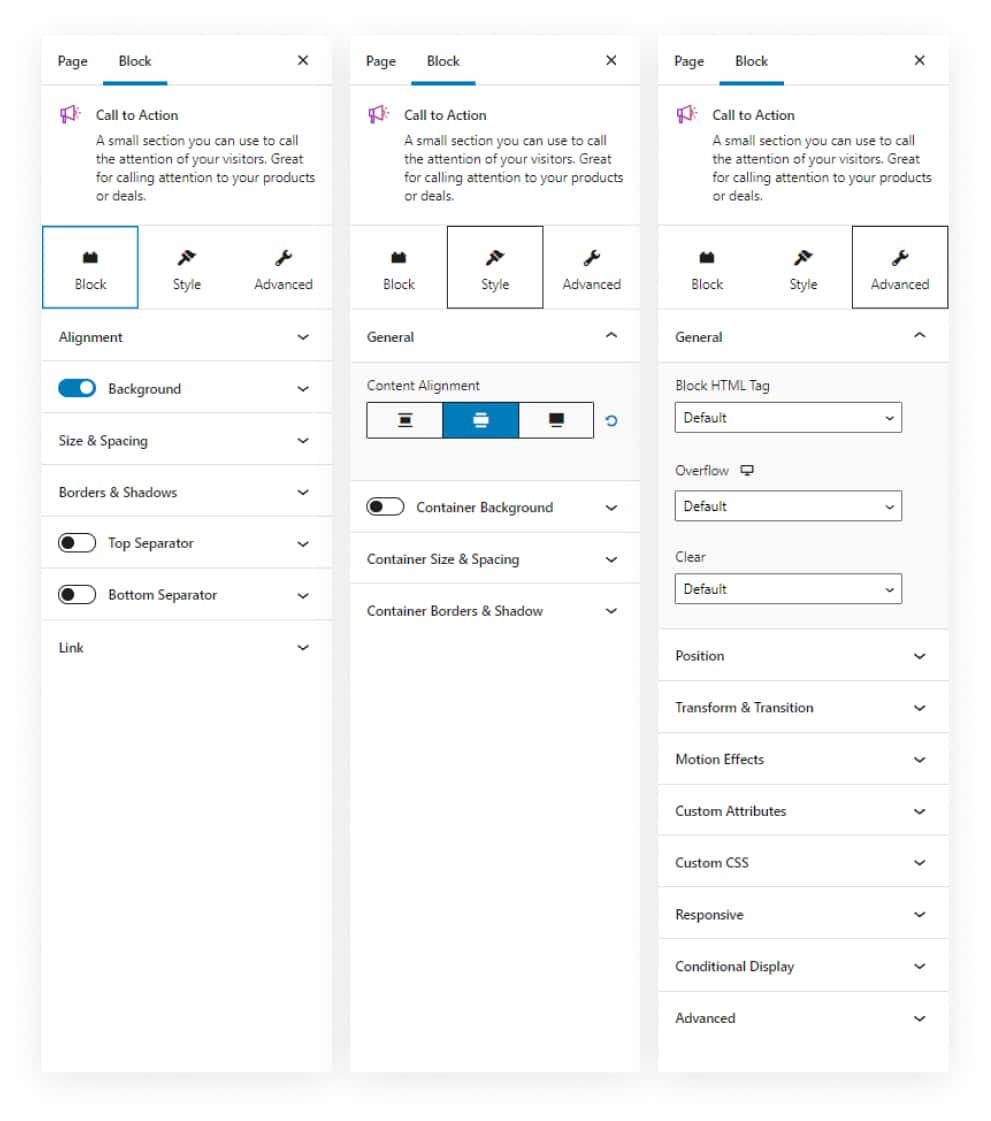
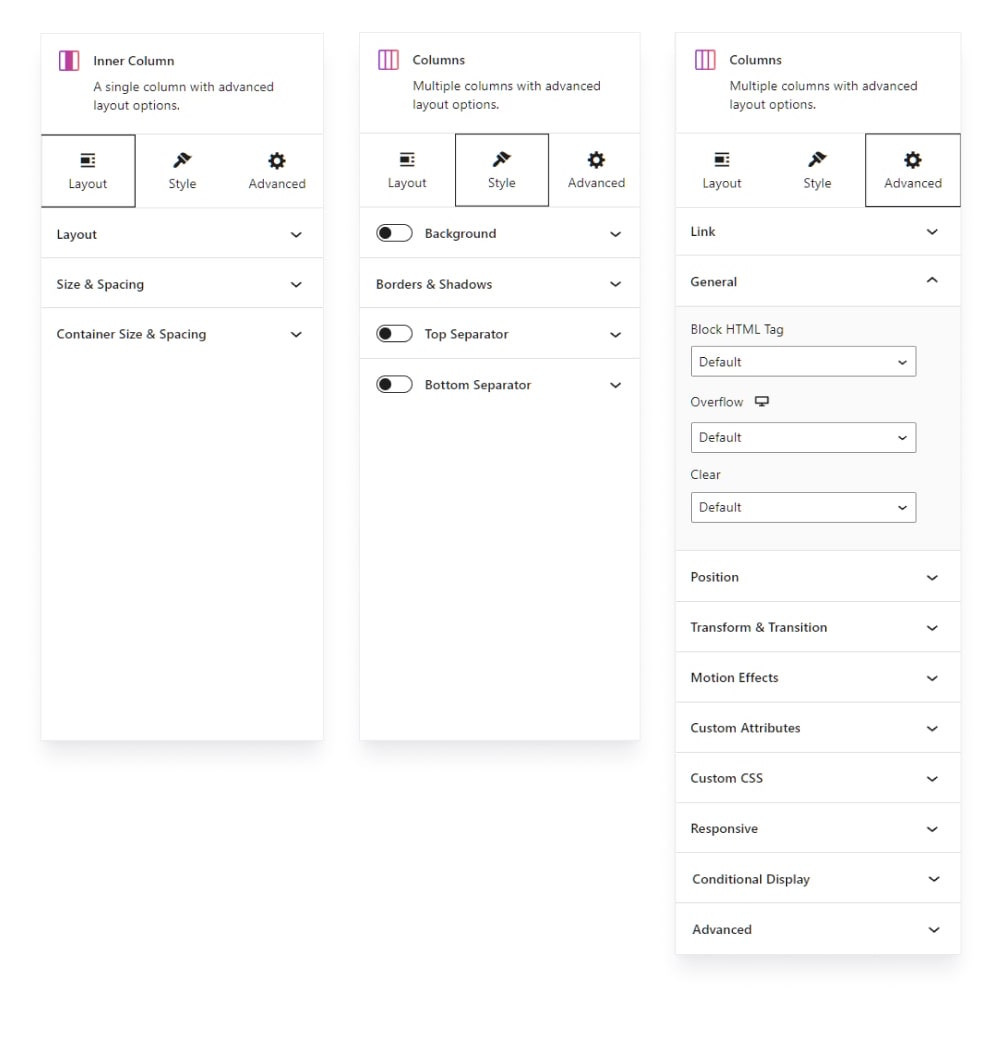
Changed getting started images and getting started wording

diff --git a/src/welcome/index.php b/src/welcome/index.php
@@ -355,7 +355,7 @@ if ( ! class_exists( 'Stackable_Welcome_Screen' ) ) {
 						<div class="s-getting-started__two-column reverse">
 							<div class="s-getting-started__entry">
 								<h3><?php _e( '1. Inspector', STACKABLE_I18N )?></h3>
-								<p><?php _e( 'The Inspector is the main styling area consisting of Block, Style and Advanced tabs.', STACKABLE_I18N )?></p>
+								<p><?php _e( 'The Inspector is the main styling area consisting of Layout, Style and Advanced tabs.', STACKABLE_I18N )?></p>
 								<div class="s-getting-started__help-tip secondary">
 									<img draggable="false" src="<?php echo plugins_url( 'images/star.svg', __FILE__ )?>">
 									<span>
